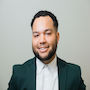
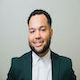
about us card positioning updated

diff --git a/src/main/resources/static/css/allEvents.css b/src/main/resources/static/css/allEvents.css
@@ -111,6 +111,7 @@ body#aboutus {
 
     background-image: url("../img/aboutus-lights.png");
     height: 100vh;
+    min-height: available;
     background-position: center;
     background-size: cover;
     background-repeat: no-repeat;
@@ -120,7 +121,7 @@ body#aboutus {
 }
 
 body#aboutus * {
-    box-sizing: border-box;
+    /*box-sizing: border-box;*/
 }
 
 body#aboutus h3 {
@@ -140,22 +141,26 @@ body#aboutus p {
 .all-cards-container {
     display: flex;
     align-items: center;
-    justify-content: center;
+    justify-content: space-evenly;
     flex-direction: column;
+    width: 100%;
 }
 
 .top-cards-container {
     display: flex;
-    /*align-items: center;*/
+    margin: 1em;
+    align-items: center;
     justify-content: space-evenly;
     flex-direction: row;
+    width: 100%;
 }
 
 .bottom-cards-container {
     display: flex;
-    /*align-items: center;*/
-    justify-content: space-around;
+    align-items: center;
+    justify-content: space-evenly;
     flex-direction: row;
+    width: 100%;
 }
 
 
@@ -187,6 +192,9 @@ body#aboutus p {
     border: 1px solid #03BFCB;
     border-radius: 50%;
     padding: 7px;
+    background-position: center center;
+    background-size: contain;
+    /*object-fit: cover;*/
 }
 
 button.primary {
@@ -226,28 +234,4 @@ button.primary.ghost {
     padding: 7px;
 }
 
-footer {
-    background-color: #222;
-    color: #fff;
-    font-size: 14px;
-    bottom: 0;
-    position: fixed;
-    left: 0;
-    right: 0;
-    text-align: center;
-    z-index: 999;
-}
-
-footer p {
-    margin: 10px 0;
-}
-
-footer i {
-    color: red;
-}
-
-footer a {
-    color: #3c97bf;
-    text-decoration: none;
-}
 /*************************** ABOUT US styling... END*/

diff --git a/src/main/resources/templates/about.html b/src/main/resources/templates/about.html
@@ -4,13 +4,11 @@
 <body id="aboutus">
 <nav th:replace="fragments/partials :: navbar" />
 
-<h1>Meet The Developers</h1>
-
     <div class="all-cards-container">
         <div class="top-cards-container">
             <div class="card-container-about">
                 <span class="pro">VET</span>
-                <img class="round" th:src="@{../img/almeida-img.png}" alt="user" />
+                <img class="round" th:src="@{../img/almeida-img.jpeg}" alt="user" />
                 <h3>Luis Almeida</h3>
                 <h6>New York, NY</h6>
                 <p>UI / UX and <br/> Full Stack Developer</p>
@@ -97,7 +95,7 @@
         </div>
         <div class="bottom-cards-container">
             <div class="card-container-about">
-                <span class="pro">PRO</span>
+                <span class="pro">VET</span>
                 <img class="round" th:src="@{../img/peter-img.png}" alt="user" />
                 <h3>Peter Le</h3>
                 <h6>Murphy, TX</h6>
@@ -126,7 +124,7 @@
             </div>
 
             <div class="card-container-about">
-                <span class="pro">Vet</span>
+                <span class="pro">VET</span>
                 <img class="round" th:src="@{../img/sam-img.png}" alt="user" />
                 <h3>Sam Martinez</h3>
                 <h6>San Antonio, TX</h6>
